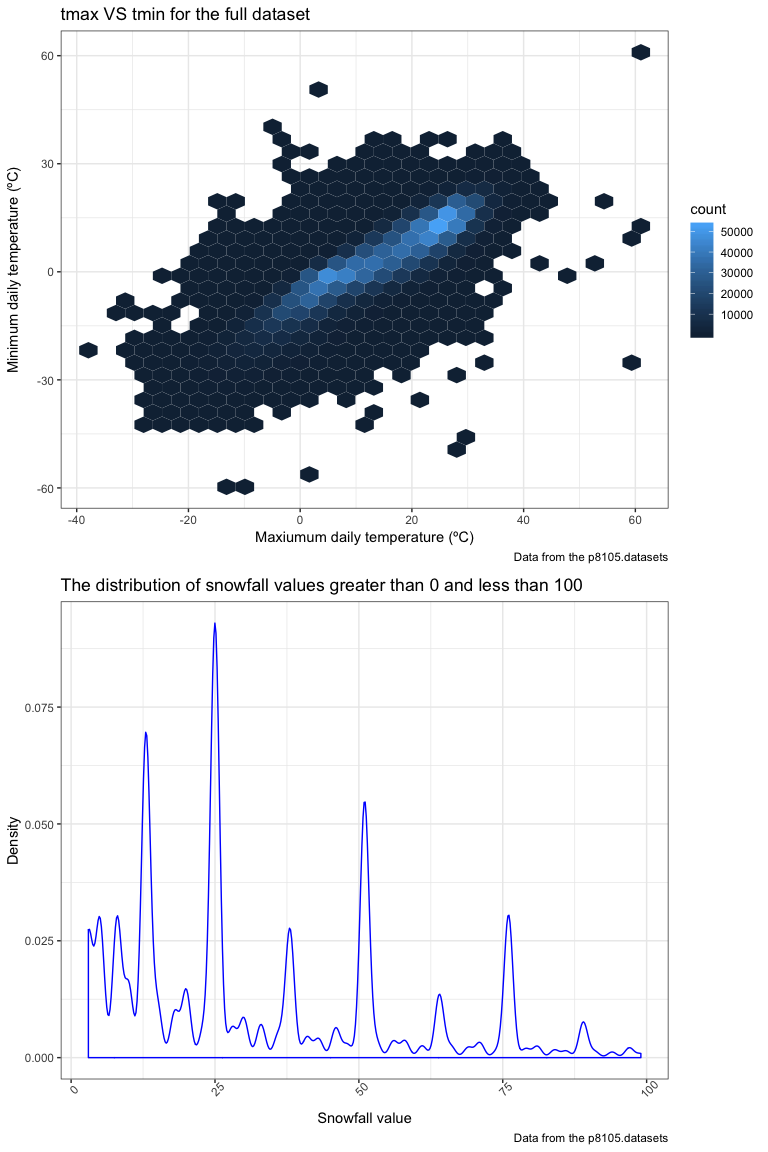
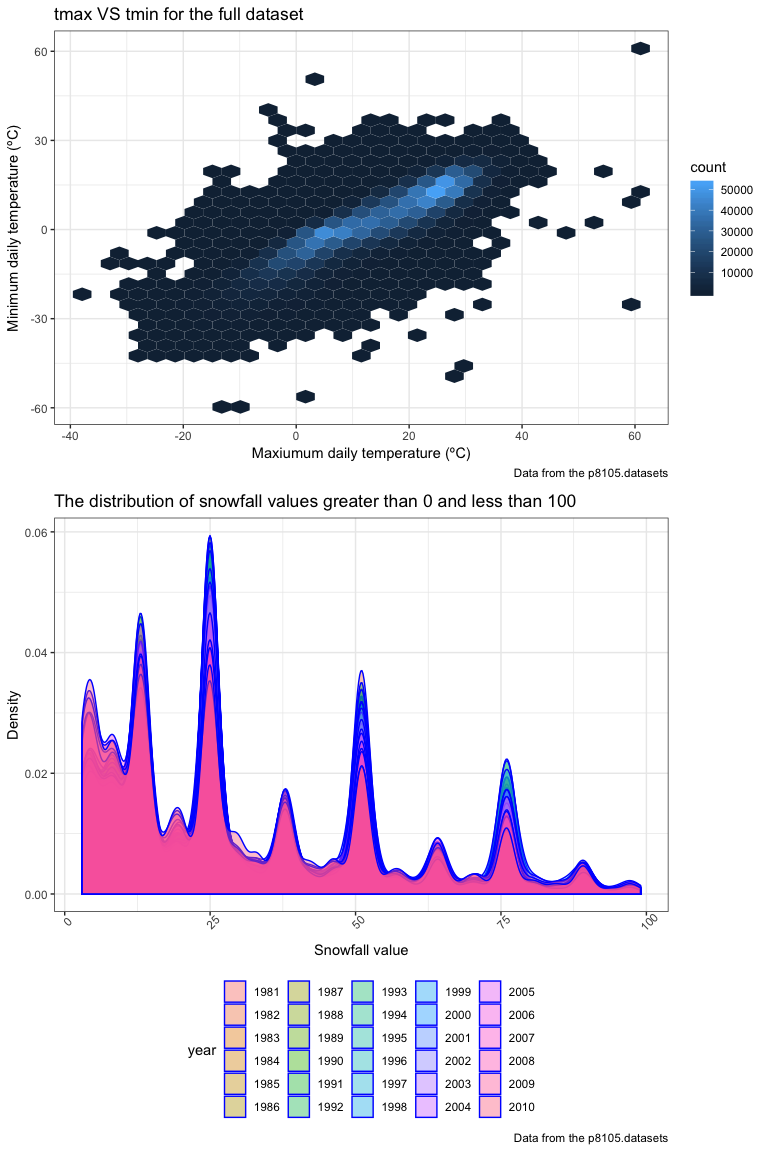
some changes of problem3

diff --git a/p8105_hw3_sl4471.md b/p8105_hw3_sl4471.md
@@ -545,7 +545,7 @@ tmax_tmin =
 distribution_snow =
   ny_noaa_tidy %>% 
   filter(snow > 0, snow < 100) %>% 
-  ggplot(aes(x = snow, color = year)) + 
+  ggplot(aes(x = snow, fill = year)) + 
   geom_density(alpha = .4, adjust = .4, color = "blue") +
   labs(
     title = "The distribution of snowfall values greater than 0 and less than 100",
